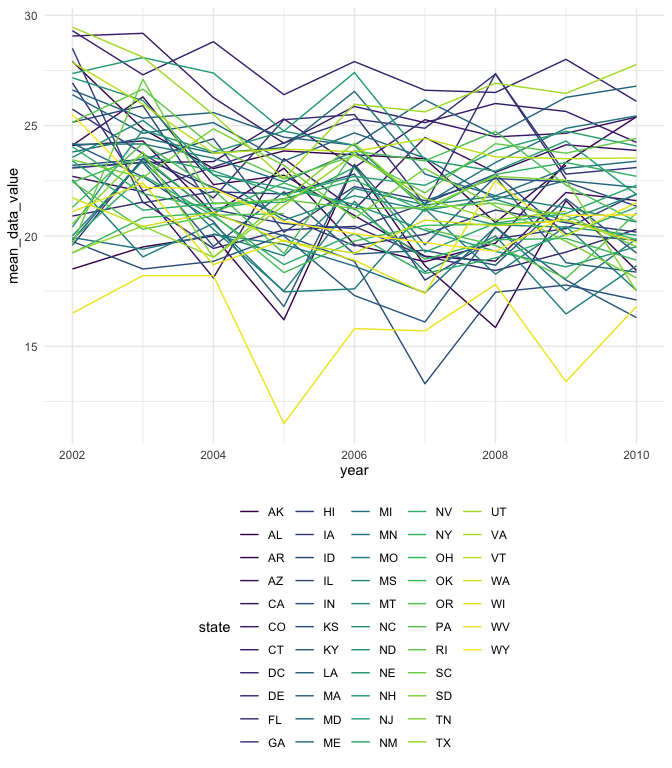
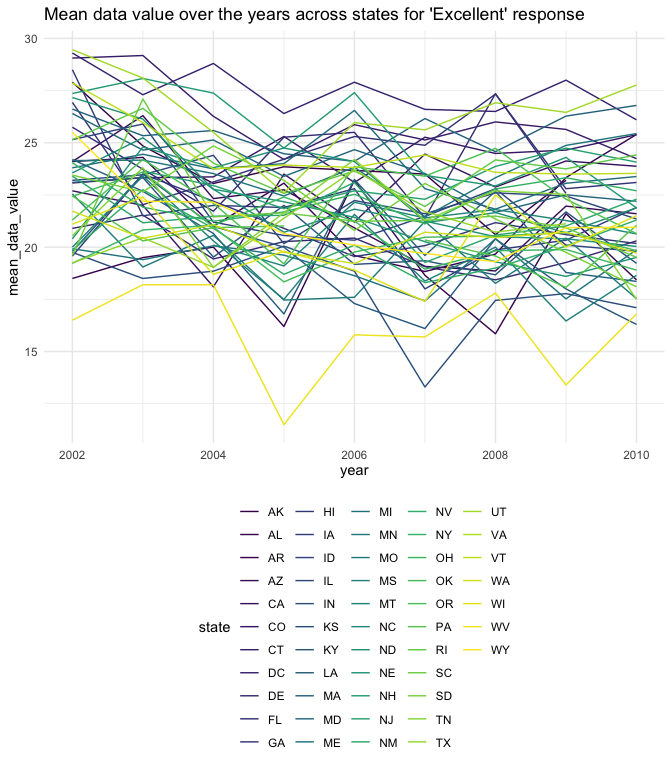
committing final md

diff --git a/p8105_hw3_td2704.md b/p8105_hw3_td2704.md
@@ -351,7 +351,8 @@ geom\_line geometry and group aesthetic will help).
 ``` r
 data_value_overyears_df %>%
   ggplot(aes(x=year,y=mean_data_value)) +
-  geom_line(aes(group=state,color=state))
+  geom_line(aes(group=state,color=state)) +
+  ggtitle("Mean data value over the years across states for 'Excellent' response")
 ```
 
     ## Warning: Removed 3 row(s) containing missing values (geom_path).
@@ -594,15 +595,16 @@ accel_df %>%
   geom_line(aes(group=day_id,color=factor(day_of_week))) +
   labs(color='Day of the week') +
   xlab("Minutes of the day (starting at 12am)") +
-  ggtitle("Activity count in a day grouped by day of the week (ordered Monday to Sunday)")
+  ggtitle("Activity count in a day grouped by day of the week (order: Monday to Sunday)")
 ```
 
 <img src="p8105_hw3_td2704_files/figure-gfm/unnamed-chunk-22-1.png" width="90%" />
 
 It looks like there is more activity in the early and late afternoons on
-the weekend, on Sundays in particular, perhaps the user waking up late
-on weekends or going out more. And overall, the weekdays seems to have
-high activity in mornings (likely when the user wakes up) and in the
-evenings (before the user goes to bed). The activity count is lowest
-between roughly 1300 min to 400 min, which is roughly 10pm to 7am, and
-we can assume this is when the user usually sleeps.
+the weekend (days 6 and 7), on Sundays in particular, perhaps the user
+waking up late on weekends or going out more. And overall, the weekdays
+seems to have high activity in mornings (likely when the user wakes up)
+and in the evenings (around dinner and before the user goes to bed). The
+activity count is lowest between roughly 1300 min to 400 min, which is
+roughly 10pm to 7am, and we can assume this is when the user usually
+sleeps.
